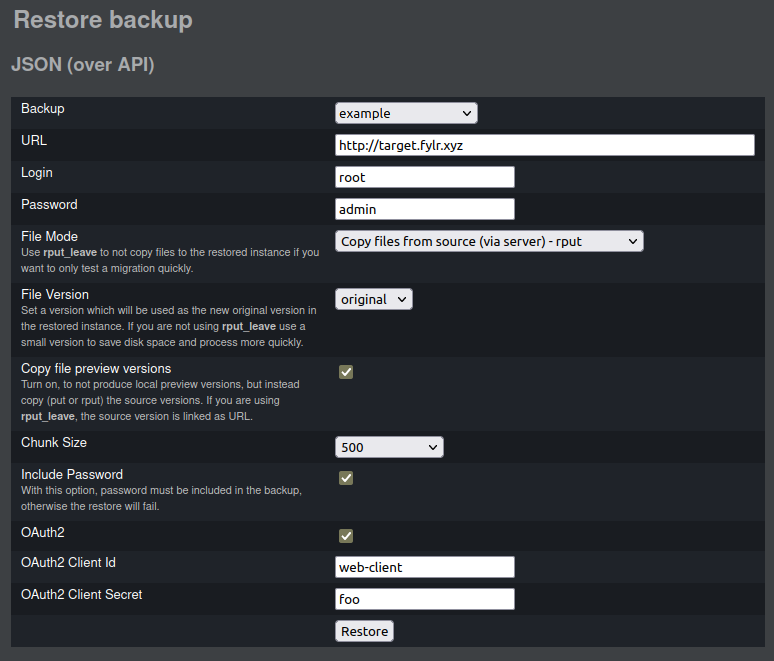
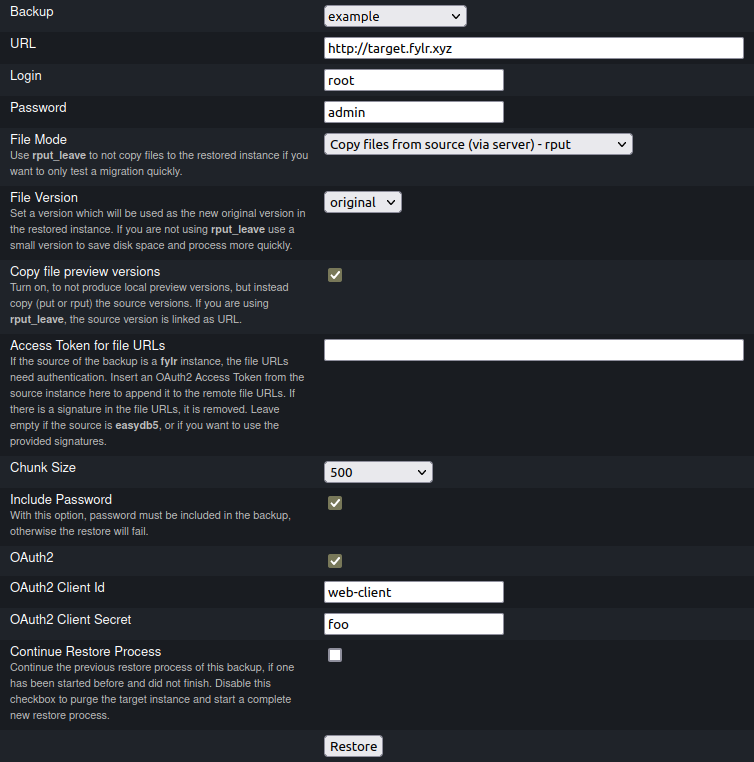
added documentation about new restore parameters to inspect migration page

diff --git a/for-system-administrators/migration/inspect.md b/for-system-administrators/migration/inspect.md
@@ -61,13 +61,13 @@ See also: [Backup Parameters](backup.md#parameters)
 * Select only of the source instance uses OAuth2
 * **easydb5** does not use OAuth2
 * this enables the following options:
-* *OAuth2 Client Id*
-  * Client Id of the source instance
-  * this sets `--client-id fylr-web-frontend`
-* *OAuth2 Client Secret*
-  * Client Secret of the source instance
-  * Leave empty if the source instance is public
-  * this sets `--client-secret foo`
+  * *OAuth2 Client Id*
+    * Client Id of the source instance
+    * this sets `--client-id fylr-web-frontend`
+  * *OAuth2 Client Secret*
+    * Client Secret of the source instance
+    * Leave empty if the source instance is public
+    * this sets `--client-secret foo`
 
 ### Fixed parameters
 
@@ -144,6 +144,20 @@ See also: [Restore Parameters](restore.md#parameters)
 * If you are using `rput_leave`, the source version is linked as URL
 * this sets `--upload-versions`
 
+#### Access Token for file URLs
+
+{% hint style="info" %}
+This is available in fylr from version **v6.10.0**.
+{% endhint %}
+
+This is only needed if the source instance of the backup is a **fylr** and there are files that should be uploaded to the target instance. **fylr** requires all requests to be authenticated. So during the restore process the file URLs need to be accessed in the source fylr, but this will fail if there is no authentication.
+
+During the backup, **fylr** adds a signature parameter to the file URLs (`x-fylr-signature`) which can be used to authenticate the request. But this signature is temporary and expires after a fixed time which is configured in the source instance. If you try to restore after a certain time the signatures can be expired and the source instance will not allow access to the files anymore.
+
+To override the signature, you can get an OAuth2 Access Token from the source instance which has read rights on these files. If this token is passed, the restore tool will parse the file URLs and remove the signature parameter, and set the `access_token` parameter instead.
+
+This sets `--file-api-access-token <token>`
+
 #### Chunk size
 
 * Select the batch size for POST requests
@@ -168,6 +182,18 @@ See also: [Restore Parameters](restore.md#parameters)
   * Client Secret of the target instance
   * Leave empty if the target instance is public
   * this sets `--client-secret foo`
+
+#### Continue Restore Process
+
+{% hint style="info" %}
+This is available in fylr from version **v6.10.0**.
+{% endhint %}
+
+Continue the previous restore process of this backup, if one has been started before and did not finish. The restore process will continue based on the progress file that has been written during the previous restore.
+
+If this checkbox is disabled, the target instance will be purged and a complete new restore process is started.
+
+This checkbox either sets the parameters `--purge` (if disabled) or `--continue` (if enabled).
 
 ### Fixed parameters
 
